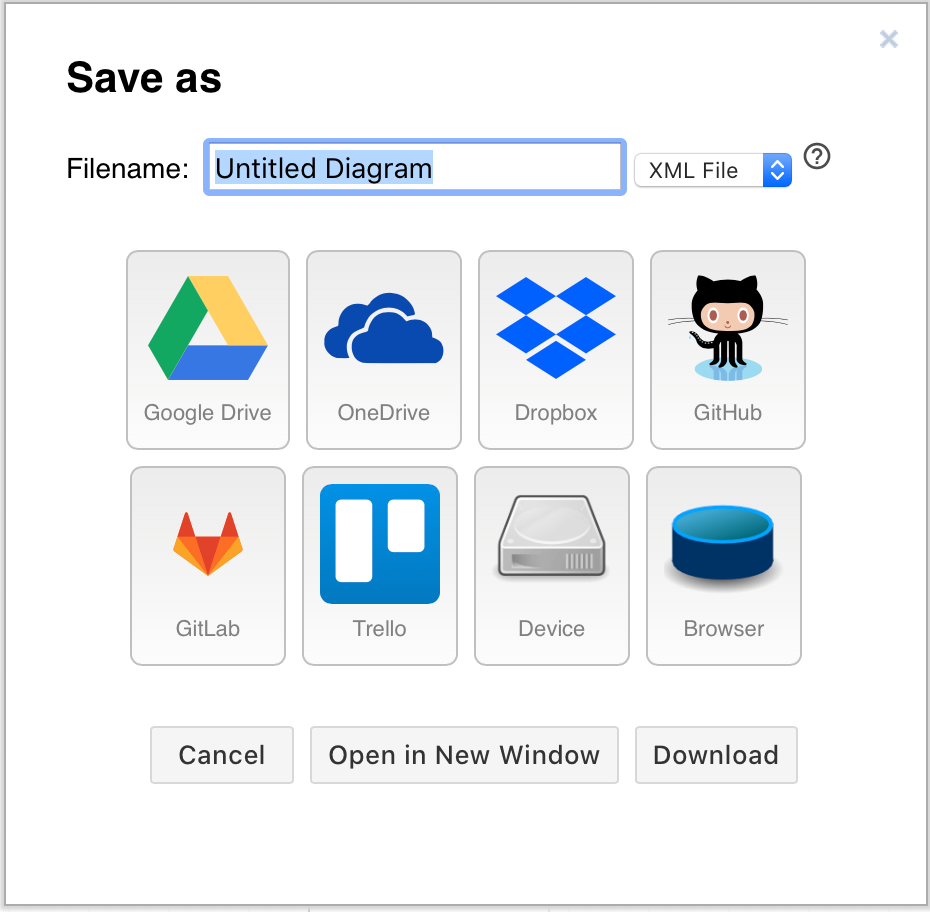
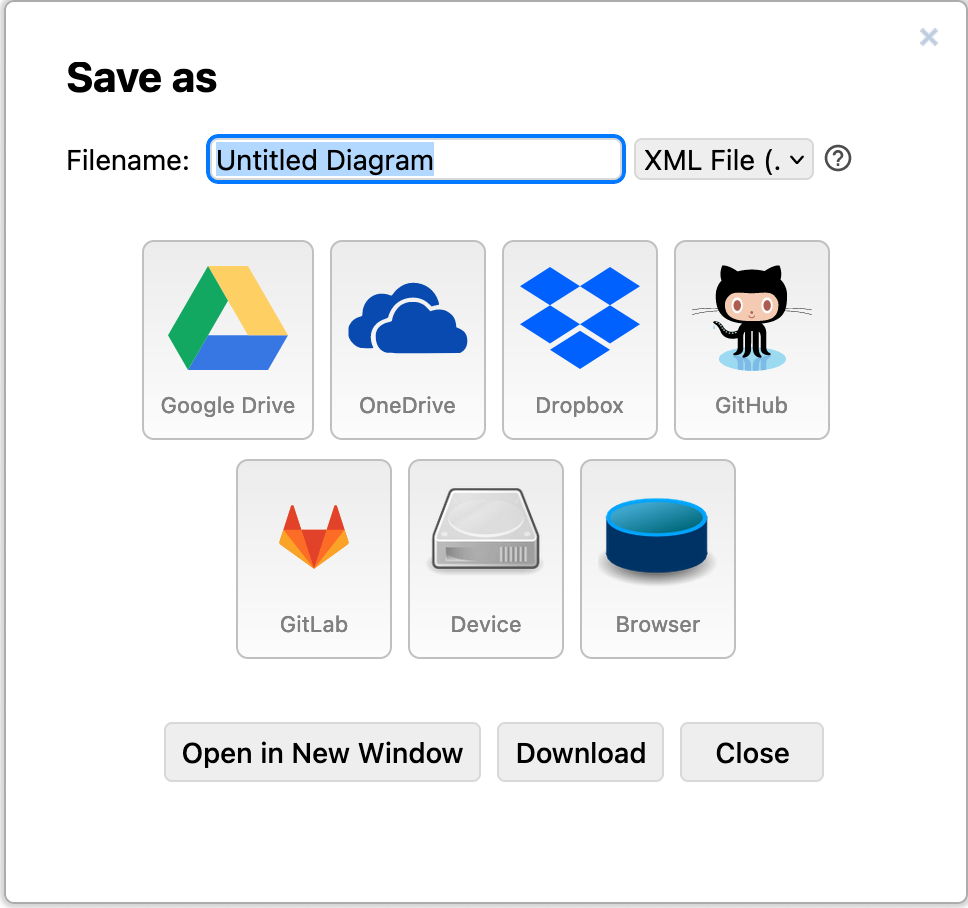
blog post and edits

diff --git a/_posts/2023-03-03-draw-faster-diagrams.md b/_posts/2023-03-03-draw-faster-diagrams.md
@@ -1,0 +1,68 @@
+---
+layout: post
+author: diagrams.net
+slug: draw-faster-diagrams
+date: 2023-03-03 09:10:00
+title: More tips to draw faster in diagrams.net
+tags: [features]
+categories: [features]
+---
+
+Keyboard shortcuts for [styles](/blog/shortcut-styles.html) and [shapes](/blog/shortcut-shape-library.html), [default styles](/blog/default-styles.html), and [modifier keys when using the mouse](/blog/modifier-shortcuts-in-diagrams.html) help you to diagram faster. Here are a few more ways that diagrams.net and draw.io helps you to draw faster and more easily. 
+<br /><img src="/assets/img/blog/modern-mode-shape-selection-dialog.png" style="width=100%;max-width:500px;height:auto;" alt="Style a shape and a connector when you start you diagram, set it as the default style, and use the double-click shape selection dialog to quickly draw the rest in the right style in diagrams.net">
+
+## Shape selection dialog
+
+Double click on the drawing canvas to see a quick selection of shapes, as shown in the image above. This shape selection dialog uses the default style you've set for shapes so you can draw your diagram quickly using that style for all shapes. 
+
+**Set a default style**
+
+* Style one shape, then click _Set as Default Style_ in the _Style_ tab of the format panel.  
+* Style a connector in the same way to set a default connector style. 
+<br /><img src="/assets/img/blog/modern-mode-connector-set-default-style.png" style="width=100%;max-width:300px;height:auto;" alt="Style a shape and a connector when you start you diagram, set it as the default in the Style tab of the format panel in diagrams.net">
+
+## Drag shapes from the toolbar
+
+In both the [new modern mode](/blog/modern-mode-diagrams.html) and the older Sketch editor theme, you can close the Shapes panel to use a larger drawing canvas. 
+
+Instead of opening the panel again, drag shapes and text from the toolbar onto the canvas. 
+<br /><img src="/assets/img/blog/modern-mode-shapes-from-toolbar.gif" style="width=100%;max-width:400px;height:auto;" alt="Drag shapes from the toolbars quickly onto the drawing canvas in modern mode and the Sketch editor theme in diagrams.net">
+
+**Tip:** The [Sketch editor theme](/blog/sketch-online-whiteboard.html) toolbar has the most common shapes used for brainstorming in meetings on a digital whiteboard.
+<br /><img src="/assets/img/blog/sketch-editor-theme-toolbar.png" style="width=100%;max-width:400px;height:auto;" alt="The sketch editor theme in diagrams.net works well as an online whiteboard, with shapes commonly used in meetings">
+
+
+## Hover to duplicate icons and images
+
+Hover over any existing shape and click on one of its direction arrows to clone the shape and connect the copy. This works for any text, shape, clipart icon, and even image files imported onto the drawing canvas.
+<br /><img src="/assets/img/blog/duplicate-icon-image.gif" style="width=100%;max-width:300px;height:auto;" alt="Use the quick selection on hover to duplicate and connect icons and images in diagrams.net">
+
+
+## Style all connectors or shapes at once
+
+You'll want to style shapes and connectors separately, as the Style tab is context sensitive - shapes and connectors have different style options, so when you select a mixture, only the common style options will be available.
+
+To select all shapes at once, right click on an empty area of the drawing canvas and choose _Select Vertices_ from the context menu. 
+<br /><img src="/assets/img/blog/modern-mode-select-vertices.png" style="width=100%;max-width:600px;height:auto;" alt="Select all shapes or all connectors quickly to style them all at once via the right-click context menu in diagrams.net">
+
+To select only the connectors in your diagram, right-click on an empty area of the drawing canvas and choose _Select Edges_ from the context menu. 
+
+Use the options in the Style tab of the format panel to change the style of everything that is selected at the same time. 
+<br /><img src="/assets/img/blog/modern-mode-style-all-edges.png" style="width=100%;max-width:400px;height:auto;" alt="Select all shapes or all connectors quickly to style them all at once via the right-click context menu in diagrams.net">
+
+You could also apply a global style to all the shapes and connectors in your diagram. Make sure nothing is selected, and switch to the _Style_ tab of the format panel to see the [global style palette](/doc/faq/global-style.html).
+
+
+## Draw freehand instead of rough style
+
+If you want a very rough shape, and don't want to spend the time tweaking the [rough style shape properties](/blog/rough-style#change-properties-to-customise-the-sketch-style), draw a [freehand shape](/blog/freehand-drawing.html) with your mouse. You can quickly add comments when reviewing diagrams with freehand shapes.
+
+Freehand shapes can be rotated, resized, labelled, and styled like normal shapes - you can even apply the rough style for a consistent hand-drawn feel. 
+<br /><img src="/assets/img/blog/sketch-ui-freehand-drawing.gif" style="width=100%;max-width:500px;height:auto;" alt="Draw and style a freehand shape">
+
+The freehand shape tool draws when you hold down the mouse button or draw with a smart pen on your tablet, recording how you move the cursor. 
+
+The _Brush_ option smoothly approximates your mouse movements for better curves, and the slider changes its thickness.
+
+You can draw intricate doodles with the freehand tool, especially on mobile devices, when you group the individual freehand shapes together.
+<br /><img src="/assets/img/blog/freehand-crow.png" style="width=100%;max-width:300px;height:auto;" alt="Draw complex freehand shapes with the brush tool in diagrams.net">

diff --git a/doc/faq/mass-import-gliffy-confluence-cloud.md b/doc/faq/mass-import-gliffy-confluence-cloud.md
@@ -31,3 +31,34 @@ No data is lost in this conversion process - a new page version will be created 
 * Do not delete these files - they are needed to maintain the page revision history in case you want to revert to an earlier version.
 
 From the user's point of view, they will see the diagram in the page just as before, only now it is a draw.io diagram instead of a Gliffy diagram.
+
+
+## Gliffy mass import FAQs
+
+**When to perform the import**
+
+Perform the conversion outside of your company's normal usage hours of the Confluence instance. It's best to carry out the whole operation when few changes are being made to pages containing diagrams.
+
+We recommend that you remove the Gliffy license so that users do not start editing Gliffy diagrams while the process is running. Without a license, the Gliffy diagrams are effectively read-only. Please notify your users in advance.
+
+**Diagram backups**
+
+draw.io automatically creates a new page revision of every page that contains a Gliffy diagram. You can always revert pages to their previous versions as no Gliffy data is deleted.
+
+**Uninstalling Gliffy**
+
+Most Confluence Cloud administrators prefer to unambiguously recommend users diagram with on diagram editor and so uninstall the Gliffy app after migrating to draw.io. If Gliffy is already uninstalled, the mass Gliffy to draw.io import will still work, as the original diagram files are still attached to their pages.
+
+It's best to uninstall Gliffy _after_ the mass import is completed and you have checked the result.
+
+**Permissions**
+
+Ensure the administrator who runs the mass import has full write permissions across _all_ spaces in your Confluence Cloud instance. 
+
+If no such user exists, you will need to temporarily elevate an administrator to have those permissions for the duration of the import.
+
+_This is the most common cause of 403 errors._
+
+**Troubleshooting**
+
+Make sure you always test the mass Gliffy import on a test instance with your production data first. If you encounter any issues during this mass import, please email support@draw.io and send the Gliffy Import Report text file as an attachment to your email.

diff --git a/doc/faq/custom-libraries-confluence-cloud.md b/doc/faq/custom-libraries-confluence-cloud.md
@@ -9,10 +9,9 @@ Custom shape libraries help you save time when you regularly reuse complex or sp
 
 ## Create a custom library
 
-1. Edit a Confluence page, type ``{draw`` and select _Drawio_ to insert a draw.io diagram macro, and create a new diagram. Alternatively you can open an existing diagram in the draw.io editor.
+1. Edit a Confluence page, type ``/draw`` and select the _Draw.io diagram_ macro to create a new diagram. Alternatively, open an existing diagram in the draw.io editor.
 2. Click _File > New Library_ and select where you want to store your custom library.
 <br /><img src="/assets/img/blog/new-library-confluence-cloud.png" style="width=100%;max-width:400px;height:auto;" alt="Create a new shape library to use with draw.io for Confluence Cloud">
-   - _Browser_ stores it in your browser, and it will be automatically available whenever you edit diagrams. _If you clear your browser data, your custom shape library will be deleted._
    - _Device_ saves a copy of your library as an ``.xml`` file on your device. You will need to load your shape library when you work on a diagram, but this file will not be deleted if you clear your browser data.
 3. Enter a name for your shape library. You can drag image files from your device or image URLs into this dialog to add them directly to your new custom library before you save it, or click _Add images_ to add files saved on your device. Click _Save_ when you are done.
 <br /><img src="/assets/img/blog/new-library-confluence-cloud-2.png" style="width=100%;max-width:400px;height:auto;" alt="Save your new custom shape library to your browser or your device">

diff --git a/_posts/2021-01-21-uml-2-5.md b/_posts/2021-01-21-uml-2-5.md
@@ -52,7 +52,7 @@ _Click on a diagram below to open in the diagrams.net viewer_
 
 **Activity diagrams** are used to [model workflows in various ways](/blog/uml-activity-diagrams.html). In this example, the workflow actions are arranged into swimlanes representing the actors, with a section that allows an interrupt (exception) to cancel the order.
 
-[<img src="/assets/img/blog/uml-2-5-activity-diagram-example.png" style="width=100%;max-width:500px;height:auto;" alt="Activity diagrams are used to model workflows in various ways">](https://viewer.diagrams.net/?lightbox=1&highlight=0000ff&edit=_blank&page=1&layers=1&nav=1&title=#Uhttps%3A%2F%2Fraw.githubusercontent.com%2Fjgraph%2Fdrawio-diagrams%2Fdev%2Fexamples%2Fuml-activity-example.drawio)
+[<img src="/assets/img/blog/uml-2-5-activity-diagram-example.png" style="width=100%;max-width:500px;height:auto;" alt="Activity diagrams are used to model workflows in various ways">](https://viewer.diagrams.net/?lightbox=1&highlight=0000ff&edit=_blank&page=0&layers=1&nav=1&title=#Uhttps%3A%2F%2Fraw.githubusercontent.com%2Fjgraph%2Fdrawio-diagrams%2Fdev%2Fexamples%2Fuml-activity-example.drawio)
 
 ## Related
 

diff --git a/doc/faq/custom-templates-confluence-cloud.md b/doc/faq/custom-templates-confluence-cloud.md
@@ -9,7 +9,7 @@ Custom templates can speed up diagramming and ensure users diagram with a consis
 
 Custom template libraries are stored in the draw.io config space and accessed through the draw.io Configuration in the Confluence Cloud administration settings. Administrators can organise custom templates into categories and make them available to their users whenever they create a new diagram.
 
-**Important:** Administrators must [set appropriate **read** permissions for the draw.io config space](/doc/faq/confluence-drawio-config-space-permissions.html) in the Confluence instance so that all draw.io users can access these custom libraries.
+**Important:** Administrators must [set appropriate **read** (Add) permissions for the draw.io config space](/doc/faq/confluence-drawio-config-space-permissions.html) in the Confluence instance so that all draw.io users can access these custom libraries.
 
 ### Add a custom template diagram to Confluence Cloud
 

diff --git a/doc/faq/storage-location-select.md b/doc/faq/storage-location-select.md
@@ -19,10 +19,6 @@ diagrams.net will automatically remember where you have last stored your diagram
 * [Use diagrams in Google Drive and Google Workplace (G Suite) apps](/doc/faq/google-drive-diagrams.html)
 * [Install diagrams.net on a mobile device](/doc/faq/mobile-diagram-app.html)
 
-## Store diagrams in your browser
-
-If you click _Decide later_, your diagram is saved in your browser storage as you edit your diagram. When you save your diagram (_File > Save_) or quit, choose from the previously mentioned locations in addition to Trello and your browser.
-
 <img src="/assets/img/blog/storage-locations-save-as.png" style="width=100%;max-width:250px;height:auto;" alt="Select the location where you want to save your diagram files">
 
 **Tip:** Click on either _Device_ or _Download_ to save the diagram file to your local device.
